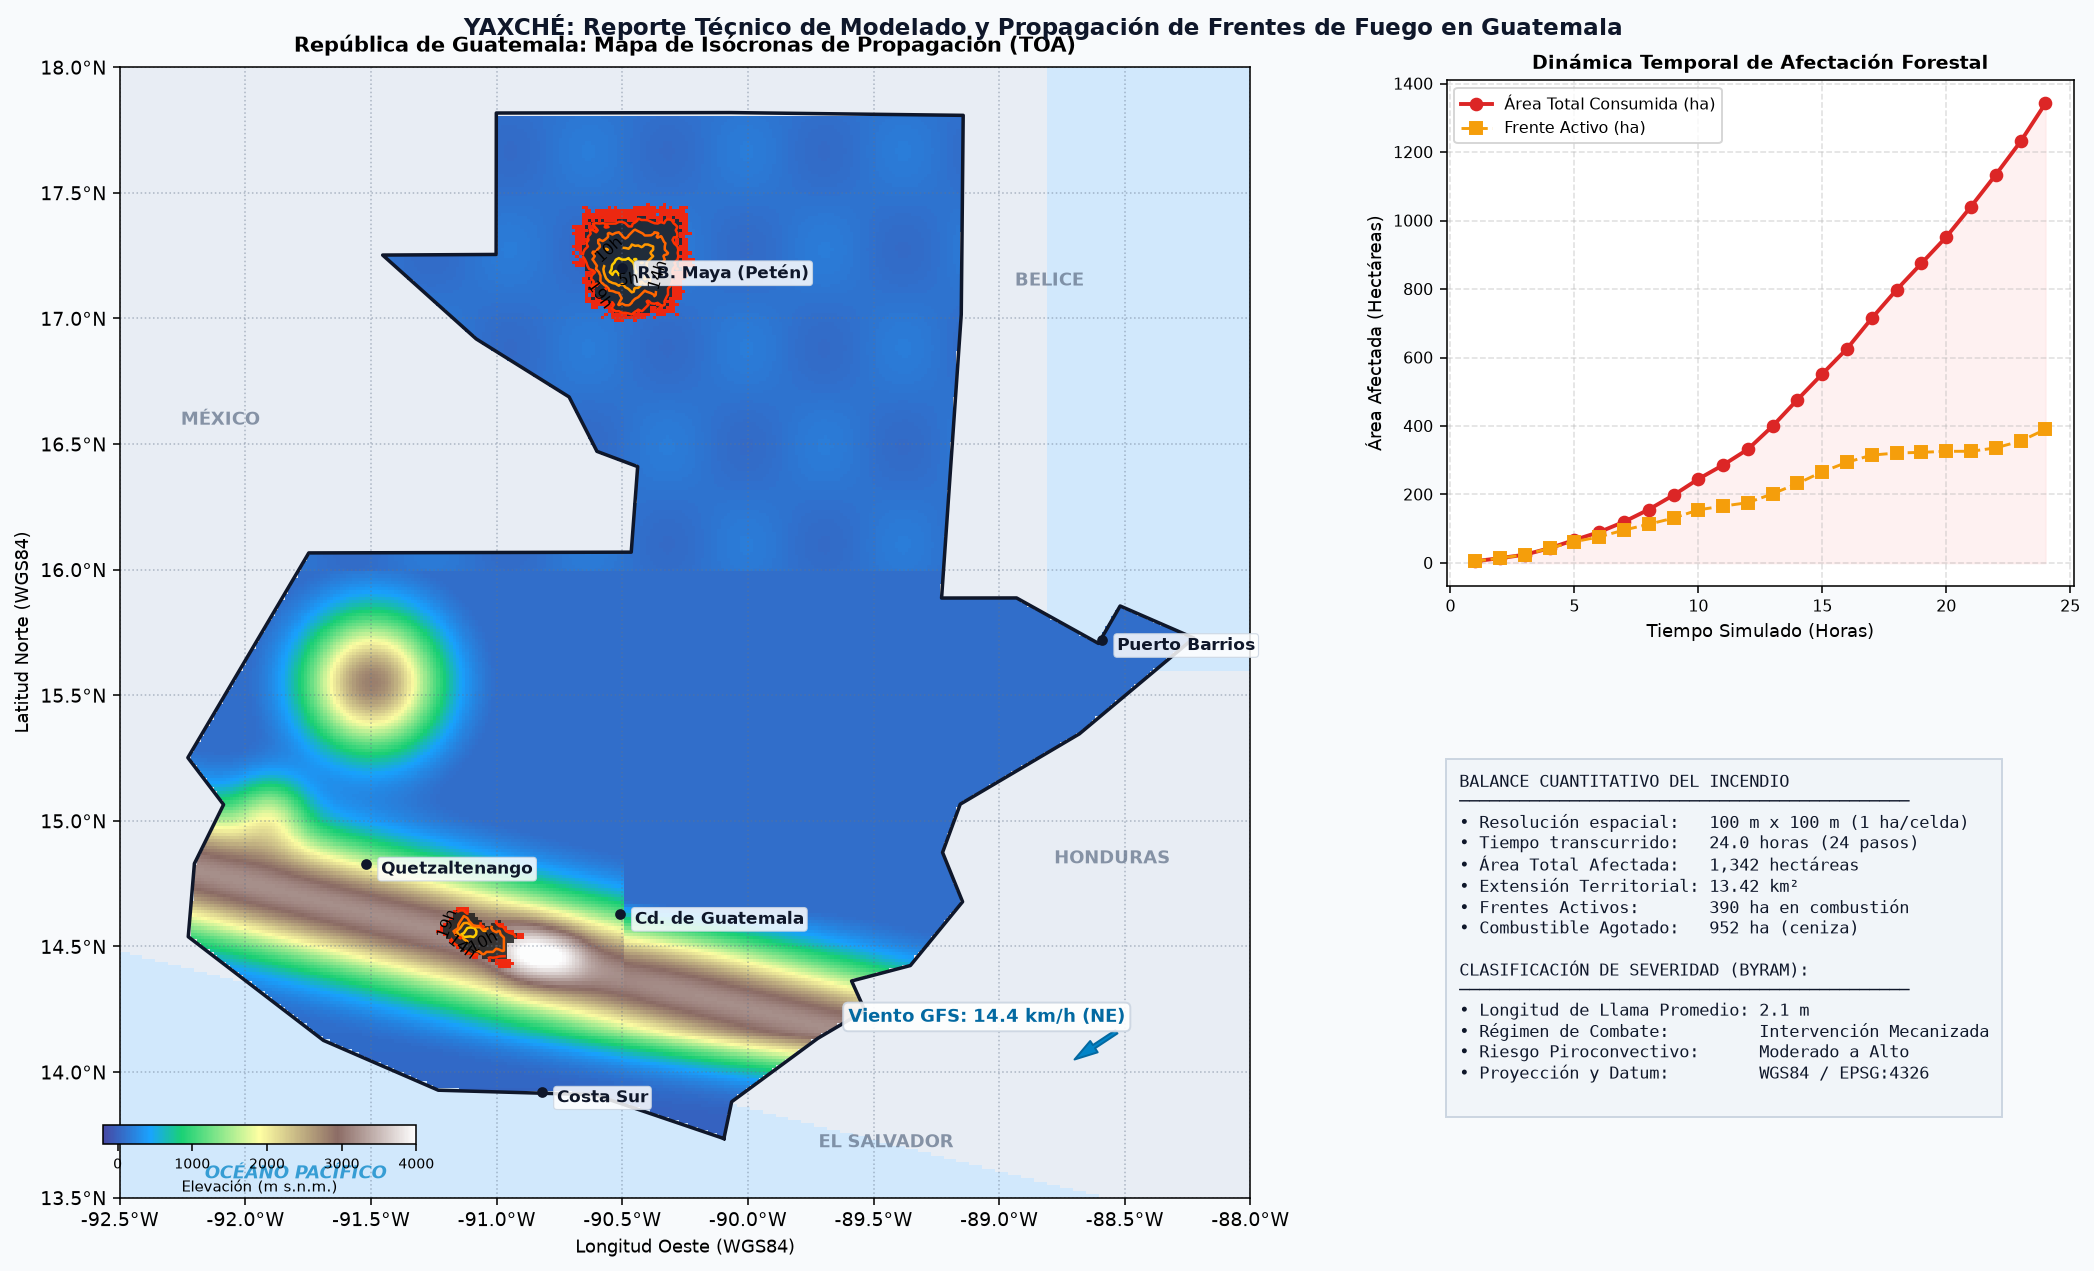
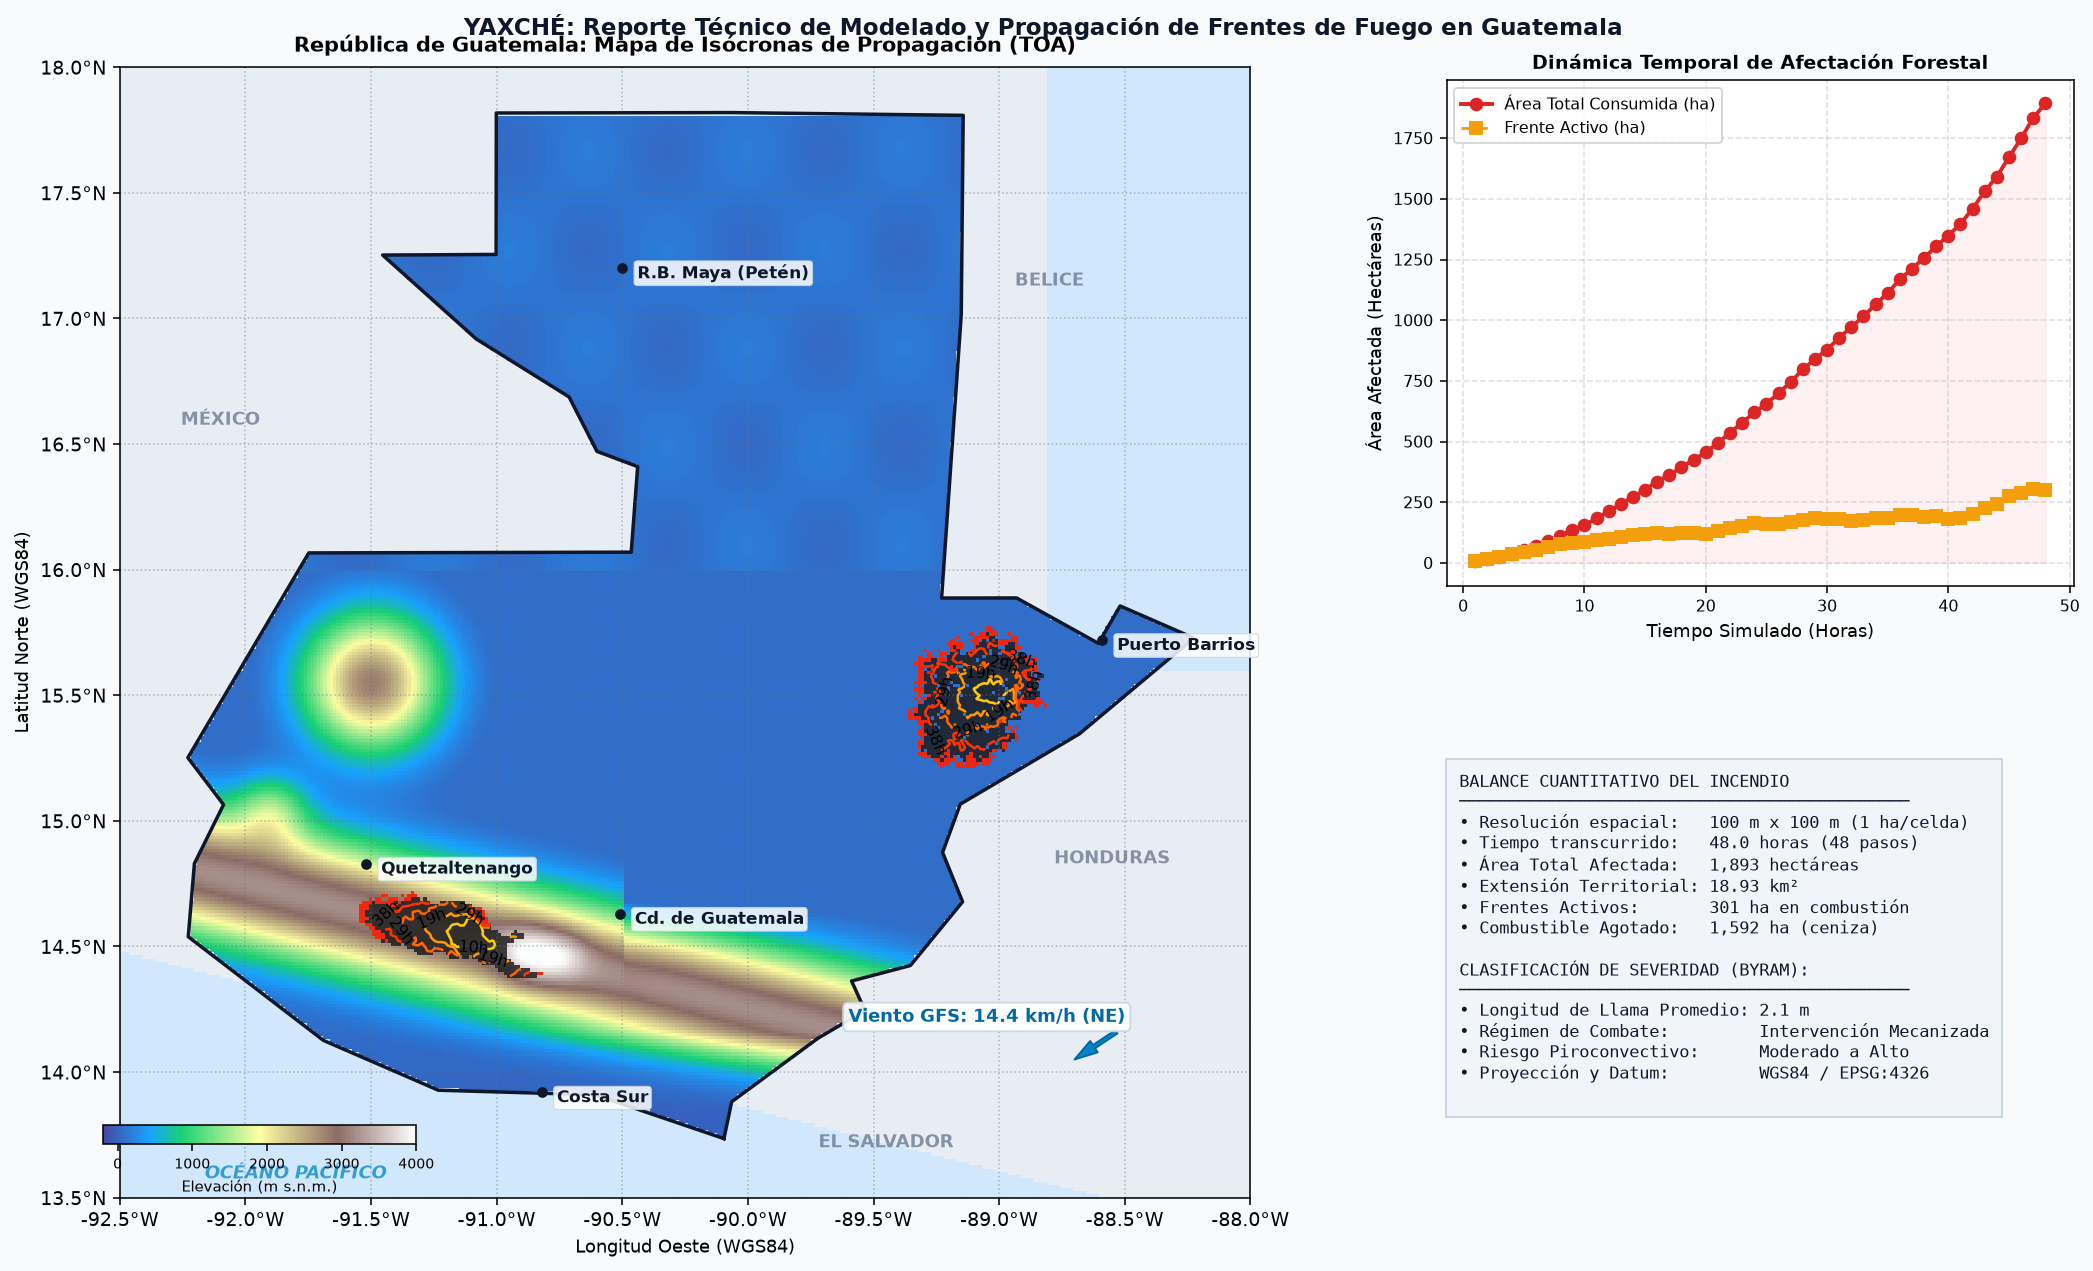
[ADD]

diff --git a/run_demo.py b/run_demo.py
@@ -26,7 +26,7 @@ def main():
     print(f"   -> Territorio continental de Guatemala delimitado: {ha_guatemala:,} hectareas.")
 
     print("2. Configurando viento meteorologico NOAA GFS (14 km/h hacia el Noreste)...")
-    wind = WindField.uniform(shape=(rows, cols), speed_ms=4.0, direction_degrees=45.0)
+    wind = WindField.uniform(shape=(rows, cols), speed_ms=4.0, direction_degrees=180.0)
 
     print("3. Inicializando simulador...")
     sim = FireSimulation(terrain=terrain, wind=wind, step_duration_hours=1.0)
@@ -36,10 +36,10 @@ def main():
     print("4. Iniciando focos de ignicion reales:")
     print("   -> Foco 1: Reserva de la Biosfera Maya (Peten: 17.20°N, 90.50°W)")
     print("   -> Foco 2: Cadena Volcanica / Sierra Madre (14.55°N, 91.10°W)")
-    sim.ignite_coord(lon=-90.50, lat=17.20)
+    sim.ignite_coord(lon=-89.0, lat=15.5)
     sim.ignite_coord(lon=-91.10, lat=14.55)
 
-    pasos = 24
+    pasos = 48
     print(f"5. Ejecutando simulacion secuencial de {pasos} horas de propagacion...")
     t0 = time.perf_counter()
     history = sim.run(steps=pasos)
